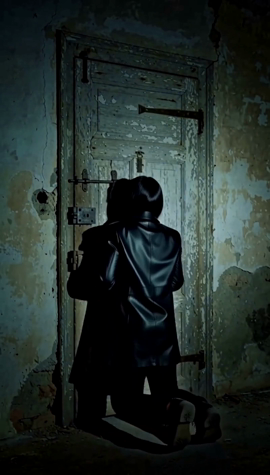
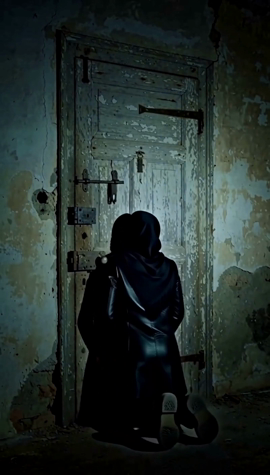
fix: M01/M06/M10 二次修正（简化描述）
一轮修正后仍不听话的 3 镜：
- M01 手部解剖崩 → 加显式解剖约束（exactly five distinct fingers and one thumb, none merged or doubled）
- M06 仍出站姿 → 开局即坐姿 + 明令 never standing/upright/walking
- M10 仍出电路板 → 删易诱发抽象联想词，改具体材质（scorched patch→shallow scorch burn；
  glowing gold→warm amber along cracked edges）

diff --git a/docs/方案/符/09-E1视频提示词.md b/docs/方案/符/09-E1视频提示词.md
@@ -86,7 +86,7 @@ retention_analysis:
 The location of <Picture 1>: preserved - its brick walls, wet asphalt and cold light are kept as the setting; no person from <Picture 1> is carried over.
 
 detailed_description:
- [Shot 1] Live-action, cinematic, a tight close-up fills the frame with a wet dark-red brick wall in a narrow alley at night. A bare adult male hand presses flat against the bricks, fingers spread wide. Water glistens across the wall and the background falls to near black. Blood runs down between the fingers and leaves dark red trails on the brick. The fingers tremble once and then hold still; at the very end a single thread of blood breaks and drips from the nail line. Shallow depth of field, the wall occupying the entire frame. Cold cyan-grey grade, low saturation, crushed shadows, the only specular highlight coming from the wet brick. The camera holds a static shot throughout. No face and no body enter the frame, and no second person appears. No captions, subtitles, or any on-screen text are generated at any point.
+ [Shot 1] Live-action, cinematic, a tight close-up fills the frame with a wet dark-red brick wall in a narrow alley at night. A single bare adult male hand — an anatomically correct human hand with exactly five distinct fingers and one thumb, none merged or doubled — presses flat against the bricks, fingers spread wide. Water glistens across the wall and the background falls to near black. Blood runs down between the fingers and leaves dark red trails on the brick. The fingers tremble once and then hold still; at the very end a single thread of blood breaks and drips from the nail line. Shallow depth of field, the wall occupying the entire frame. Cold cyan-grey grade, low saturation, crushed shadows, the only specular highlight coming from the wet brick. The camera holds a static shot throughout. No face and no body enter the frame, and no second person appears. No captions, subtitles, or any on-screen text are generated at any point.
 
 overall_soundscape: A low-frequency rumble runs underneath the whole shot. Sparse drops of blood hit the ground, and faint damp air moves somewhere down the alley.
 
@@ -241,7 +241,7 @@ retention_analysis:
 The location of <Picture 1>: preserved - its wooden door, bare walls and dim cold light are kept as the setting; no person from <Picture 1> is carried over.
 
 detailed_description:
- [Shot 1] Live-action, cinematic, a medium shot inside a dim rented room. An old wooden door is pulled shut from the inside and the latch drops with a click. A single figure, already turned fully away from the camera, slides down the closed door in one continuous motion and comes to rest seated on the floor, the back flat against the door. The figure is seen only from behind and never turns around, so no face is ever visible, and the body is never shown standing or upright in the frame. The shoulders rise and fall heavily and then slow, and the back comes to rest flat against the wall. There is no light source in the room. Cold cyan-grey grade, low saturation, crushed shadows. The camera holds a static shot throughout. No second person appears. No captions, subtitles, or any on-screen text are generated at any point.
+ [Shot 1] Live-action, cinematic, a medium shot inside a dim rented room. An old wooden door is pulled shut from the inside and the latch drops with a click. The frame opens on a person already SEATED on the floor, back flat against the closed door, knees up, breathing hard. The body stays seated for the whole shot and is never standing, never upright and never walking. The figure is seen only from behind and never turns around, so no face is ever visible, and the body is never shown standing or upright in the frame. The shoulders rise and fall heavily and then slow, and the back comes to rest flat against the wall. There is no light source in the room. Cold cyan-grey grade, low saturation, crushed shadows. The camera holds a static shot throughout. No second person appears. No captions, subtitles, or any on-screen text are generated at any point.
 
 overall_soundscape: The latch clicks shut, followed by heavy uneven breathing and muffled movement somewhere beyond the door. A low room tone continues underneath.
 
@@ -366,7 +366,7 @@ subject_definitions:
 <Picture 1> supplies ONLY the material, colour and lighting of the location — the floorboards, the plaster and the dim light — never its framing, scale or composition. The target shot is a tight close-up, NOT the wide view shown in <Picture 1>.
 
 summary:
-[reference generation] The target video shows a tight close-up of a scorched patch glowing faintly gold on the floorboard of the bare room of <Picture 1>.
+[reference generation] The target video shows a tight close-up of a shallow scorch burn glowing a faint warm amber along its cracked edges on the floorboard of the bare room of <Picture 1>.
 
 retention_analysis:
 The location of <Picture 1>: preserved - its wooden door, bare walls and dim cold light are kept as the setting; no person from <Picture 1> is carried over.
